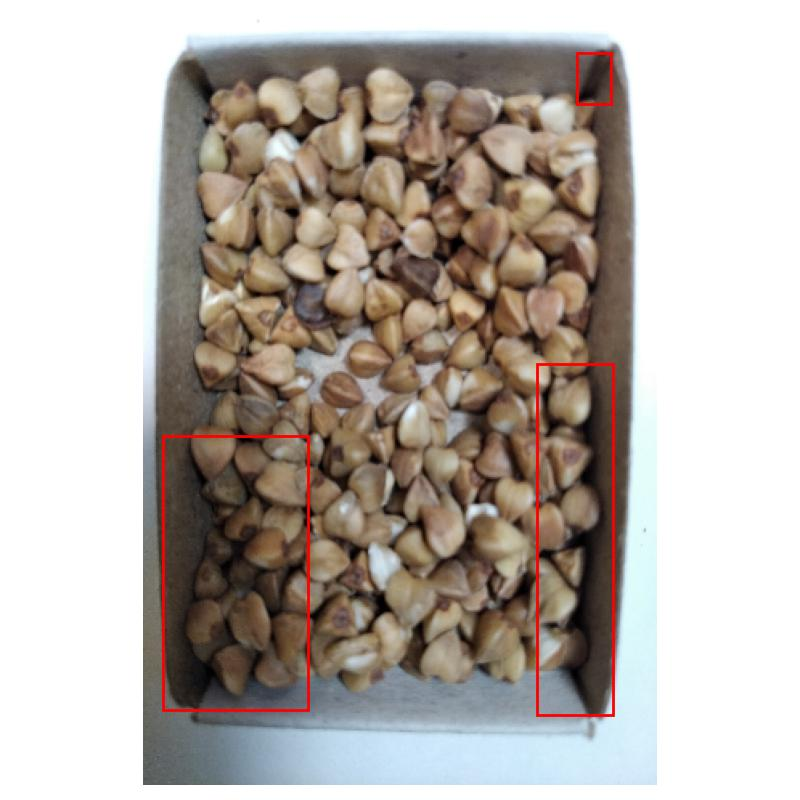
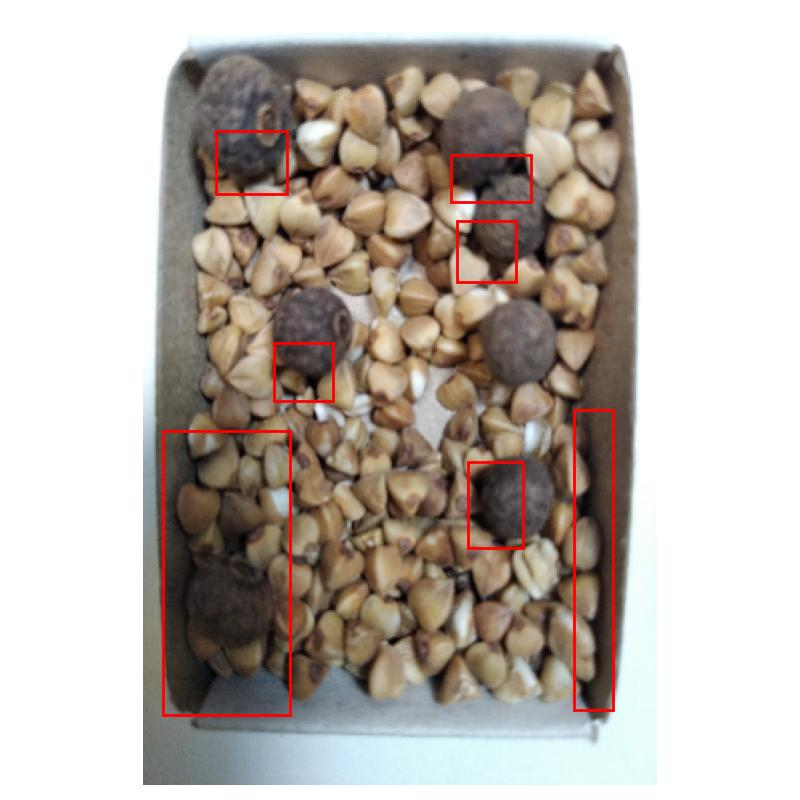
add percente of rubbish

diff --git a/rubbish_detector/detect_rubbish.py b/rubbish_detector/detect_rubbish.py
@@ -8,14 +8,16 @@ import matplotlib.pyplot as plt
 
 
 class DetectRubbish:
-    def __init__(self, threshold=200):
+    def __init__(self, image_width=320, image_heigh=480, threshold=200):
+        self.image_width = image_width
+        self.image_heigh = image_heigh
         self.threshold = threshold
 
     def detect(self, input_path, output_path):
         
         img = cv2.imread(input_path)
         img = cv2.cvtColor(img, cv2.COLOR_BGR2RGB)
-        img = cv2.resize(img, (320,480))
+        img = cv2.resize(img, (self.image_width, self.image_heigh))
         image = cv2.cvtColor(img, cv2.COLOR_RGB2GRAY)
         image = 255 - image
 
@@ -28,11 +30,15 @@ class DetectRubbish:
         fig, ax = plt.subplots(figsize=(8, 8))
         ax.imshow(img)
 
+        rubbish = 0
         for i, region in enumerate(regionprops(label_image)):
-            
             # take regions with large enough areas
             if region.area >= 300:
-                #print(f"Object {i}: {region.bbox}")
+                #print(region.bbox)
+
+                temp_rubbish = (region.bbox[3]-region.bbox[1]) * (region.bbox[2]-region.bbox[0])
+                rubbish += temp_rubbish
+
                 # draw rectangle around segmented coins
                 minr, minc, maxr, maxc = region.bbox
                 rect = mpatches.Rectangle((minc, minr), maxc - minc, maxr - minr,
@@ -40,13 +46,19 @@ class DetectRubbish:
                 ax.add_patch(rect)
 
 
+        rubbish_percent = round(rubbish / (self.image_width * self.image_heigh) * 100, 2)
         ax.set_axis_off()
         plt.tight_layout()
         fig.savefig(output_path)
+
+        return rubbish_percent
 
 
 if __name__ == '__main__':
 
     detector = DetectRubbish()
-    detector.detect(input_path='images/test2.jpg', 
-                        output_path='result_images/res.jpg')
+    res = detector.detect(input_path='images/test3.jpg', 
+                          output_path='result_images/res.jpg')
+
+    print("Брака на фото: {0} %".format(res))
+

diff --git a/rubbish_classifier/inference.py b/rubbish_classifier/inference.py
@@ -18,10 +18,10 @@ def predictions(image, label=False):
 
       return predicted
 
-    predicted_proba = round(output.squeeze().tolist(), 4) * 100
+    predicted_proba = round(output.squeeze().tolist() * 100, 2)
     return predicted_proba
 
 
 if __name__ == '__main__':
     res = predictions('images/test2.jpg')
-    print("Вероятность брака:: {0} %".format(res))
+    print("Вероятность брака: {0} %".format(res))
